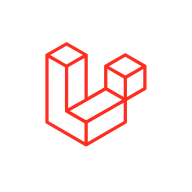
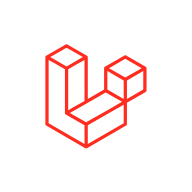
fix(brand): use the official Laravel mark, generated from one source
public/logo.svg was scaffolding boilerplate from the first commit — a "Laravel
react" promo wordmark nothing referenced, and the wrong identity to put on the
OG card and email header.

- public/logo.svg is now the official Laravel mark (matches favicon.svg), and
  app-logo-icon.tsx carries the same path, so the sidebar, favicon, share card,
  PWA icons and email header are all one artwork.
- scripts/generate-brand-assets.mjs + `bun run brand`: regenerates og-image.png,
  email-logo.png and both web-app-manifest icons from logo.svg + APP_NAME +
  palette. Rebranding is edit-one-file-then-one-command.
- Email header shows the sidebar lockup (mark on the primary tile) with the app
  name as live text, so renaming needs no new asset.
- docs/branding.md: what derives from what, and the rebranding checklist.
- BrandedMailTest covers the header URL, theme colors and every generated
  asset's dimensions.

preflight green.

diff --git a/resources/js/components/app-logo-icon.tsx b/resources/js/components/app-logo-icon.tsx
@@ -1,12 +1,16 @@
 import type { SVGAttributes } from 'react';
 
+// Official Laravel mark — same artwork as public/logo.svg (the brand source) and
+// public/favicon.svg. No `fill` here so callers can tint it with `fill-current`.
+// When rebranding: replace public/logo.svg, paste its path below, run `bun run brand`.
+// See docs/branding.md.
 export default function AppLogoIcon(props: SVGAttributes<SVGElement>) {
   return (
-    <svg {...props} viewBox="0 0 40 42" xmlns="http://www.w3.org/2000/svg">
+    <svg {...props} viewBox="0 0 166 166" xmlns="http://www.w3.org/2000/svg">
       <path
         fillRule="evenodd"
         clipRule="evenodd"
-        d="M17.2 5.63325L8.6 0.855469L0 5.63325V32.1434L16.2 41.1434L32.4 32.1434V23.699L40 19.4767V9.85547L31.4 5.07769L22.8 9.85547V18.2999L17.2 21.411V5.63325ZM38 18.2999L32.4 21.411V15.2545L38 12.1434V18.2999ZM36.9409 10.4439L31.4 13.5221L25.8591 10.4439L31.4 7.36561L36.9409 10.4439ZM24.8 18.2999V12.1434L30.4 15.2545V21.411L24.8 18.2999ZM23.8 20.0323L29.3409 23.1105L16.2 30.411L10.6591 27.3328L23.8 20.0323ZM7.6 27.9212L15.2 32.1434V38.2999L2 30.9666V7.92116L7.6 11.0323V27.9212ZM8.6 9.29991L3.05913 6.22165L8.6 3.14339L14.1409 6.22165L8.6 9.29991ZM30.4 24.8101L17.2 32.1434V38.2999L30.4 30.9666V24.8101ZM9.6 11.0323L15.2 7.92117V22.5221L9.6 25.6333V11.0323Z"
+        d="M162.041 38.7592C162.099 38.9767 162.129 39.201 162.13 39.4264V74.4524C162.13 74.9019 162.011 75.3435 161.786 75.7325C161.561 76.1216 161.237 76.4442 160.847 76.6678L131.462 93.5935V127.141C131.462 128.054 130.977 128.897 130.186 129.357L68.8474 164.683C68.707 164.763 68.5538 164.814 68.4007 164.868C68.3432 164.887 68.289 164.922 68.2284 164.938C67.7996 165.051 67.3489 165.051 66.9201 164.938C66.8499 164.919 66.7861 164.881 66.7191 164.855C66.5787 164.804 66.4319 164.76 66.2979 164.683L4.97219 129.357C4.58261 129.133 4.2589 128.81 4.0337 128.421C3.8085 128.032 3.68976 127.591 3.68945 127.141L3.68945 22.0634C3.68945 21.8336 3.72136 21.6101 3.7788 21.393C3.79794 21.3196 3.84262 21.2526 3.86814 21.1791C3.91601 21.0451 3.96068 20.9078 4.03088 20.7833C4.07874 20.7003 4.14894 20.6333 4.20638 20.5566C4.27977 20.4545 4.34678 20.3491 4.43293 20.2598C4.50632 20.1863 4.60205 20.1321 4.68501 20.0682C4.77755 19.9916 4.86051 19.9086 4.96581 19.848L35.6334 2.18492C36.0217 1.96139 36.4618 1.84375 36.9098 1.84375C37.3578 1.84375 37.7979 1.96139 38.1862 2.18492L68.8506 19.848H68.857C68.9591 19.9118 69.0452 19.9916 69.1378 20.065C69.2207 20.1289 69.3133 20.1863 69.3867 20.2566C69.476 20.3491 69.5398 20.4545 69.6164 20.5566C69.6707 20.6333 69.7441 20.7003 69.7887 20.7833C69.8621 20.911 69.9036 21.0451 69.9546 21.1791C69.9802 21.2526 70.0248 21.3196 70.044 21.3962C70.1027 21.6138 70.1328 21.8381 70.1333 22.0634V87.6941L95.686 72.9743V39.4232C95.686 39.1997 95.7179 38.9731 95.7753 38.7592C95.7977 38.6826 95.8391 38.6155 95.8647 38.5421C95.9157 38.408 95.9604 38.2708 96.0306 38.1463C96.0785 38.0633 96.1487 37.9962 96.2029 37.9196C96.2795 37.8175 96.3433 37.7121 96.4326 37.6227C96.506 37.5493 96.5986 37.495 96.6815 37.4312C96.7773 37.3546 96.8602 37.2716 96.9623 37.2109L127.633 19.5479C128.021 19.324 128.461 19.2062 128.91 19.2062C129.358 19.2062 129.798 19.324 130.186 19.5479L160.85 37.2109C160.959 37.2748 161.042 37.3546 161.137 37.428C161.217 37.4918 161.31 37.5493 161.383 37.6195C161.473 37.7121 161.536 37.8175 161.613 37.9196C161.67 37.9962 161.741 38.0633 161.785 38.1463C161.859 38.2708 161.9 38.408 161.951 38.5421C161.98 38.6155 162.021 38.6826 162.041 38.7592ZM157.018 72.9743V43.8477L146.287 50.028L131.462 58.5675V87.6941L157.021 72.9743H157.018ZM126.354 125.663V96.5176L111.771 104.85L70.1301 128.626V158.046L126.354 125.663ZM8.80126 26.4848V125.663L65.0183 158.043V128.629L35.6494 112L35.6398 111.994L35.6271 111.988C35.5281 111.93 35.4452 111.847 35.3526 111.777C35.2729 111.713 35.1803 111.662 35.1101 111.592L35.1038 111.582C35.0208 111.502 34.9634 111.403 34.8932 111.314C34.8293 111.228 34.7528 111.154 34.7017 111.065L34.6985 111.055C34.6411 110.96 34.606 110.845 34.5645 110.736C34.523 110.64 34.4688 110.551 34.4432 110.449C34.4113 110.328 34.4049 110.197 34.3922 110.072C34.3794 109.976 34.3539 109.881 34.3539 109.785V109.778V41.2045L19.5322 32.6619L8.80126 26.4848ZM36.913 7.35007L11.3635 22.0634L36.9066 36.7768L62.4529 22.0602L36.9066 7.35007H36.913ZM50.1999 99.1736L65.0215 90.6374V26.4848L54.2906 32.6651L39.4657 41.2045V105.357L50.1999 99.1736ZM128.91 24.713L103.363 39.4264L128.91 54.1397L154.453 39.4232L128.91 24.713ZM126.354 58.5675L111.529 50.028L100.798 43.8477V72.9743L115.619 81.5106L126.354 87.6941V58.5675ZM67.5711 124.205L105.042 102.803L123.772 92.109L98.2451 77.4053L68.8538 94.3341L42.0663 109.762L67.5711 124.205Z"
       />
     </svg>
   );

diff --git a/tests/Feature/BrandedMailTest.php b/tests/Feature/BrandedMailTest.php
@@ -5,31 +5,32 @@ declare(strict_types=1);
 use App\Models\User;
 use Illuminate\Auth\Notifications\ResetPassword;
 
+function resetPasswordMailHtml(): string
+{
+    return (string) new ResetPassword('fake-token')->toMail(User::factory()->create())->render();
+}
+
 it('renders framework mail with the branded theme', function (): void {
-    $user = User::factory()->create();
-
-    $html = (string) new ResetPassword('fake-token')->toMail($user)->render();
-
-    expect($html)
-        ->toContain('email-logo.png')
-        ->toContain(config('app.name'))
-        ->toContain('#00397f');
+    expect(resetPasswordMailHtml())
+        ->toContain('#00397f')
+        ->toContain(config('app.name'));
 });
 
-it('links the header logo to the app url', function (): void {
-    $user = User::factory()->create();
-
-    $html = (string) new ResetPassword('fake-token')->toMail($user)->render();
-
-    expect($html)->toContain(asset('email-logo.png'));
+it('shows the brand mark in the header as an absolute url', function (): void {
+    expect(resetPasswordMailHtml())->toContain(asset('email-logo.png'));
 });
 
-it('ships the email logo at its expected size', function (): void {
-    $path = public_path('email-logo.png');
+it('ships the generated brand assets at their declared sizes', function (): void {
+    $assets = [
+        public_path('email-logo.png') => [96, 96],
+        public_path('og-image.png') => [1200, 630],
+        public_path('web-app-manifest-192x192.png') => [192, 192],
+        public_path('web-app-manifest-512x512.png') => [512, 512],
+    ];
 
-    expect($path)->toBeFile();
+    foreach ($assets as $path => [$width, $height]) {
+        expect($path)->toBeFile();
 
-    [$width, $height] = getimagesize($path);
-
-    expect([$width, $height])->toBe([400, 100]);
+        expect(array_slice(getimagesize($path), 0, 2))->toBe([$width, $height]);
+    }
 });

diff --git a/docs/branding.md b/docs/branding.md
@@ -1,0 +1,51 @@
+# Branding a project built on this starter
+
+One source of truth — **`public/logo.svg`** — plus the app name and palette.
+Everything else is generated or reads config, so the app UI, social card, PWA
+icons and emails can't drift apart.
+
+## What derives from what
+
+| Surface | Source | How |
+|---|---|---|
+| Sidebar / app shell logo | `resources/js/components/app-logo-icon.tsx` | inline SVG path (mirrors `logo.svg`) |
+| App name everywhere in the UI | `config('app.name')` | shared Inertia prop `name` |
+| Social share card `og-image.png` | `logo.svg` + `APP_NAME` + palette | `bun run brand` |
+| Email header mark `email-logo.png` | `logo.svg` + palette | `bun run brand` |
+| Email header name | `config('app.name')` | rendered at send time |
+| PWA icons `web-app-manifest-*.png` | `logo.svg` | `bun run brand` |
+| Favicon | `public/favicon.svg`, `favicon.ico`, `apple-touch-icon.png` | replaced by hand |
+
+## Rebranding checklist
+
+1. **Name** — set `APP_NAME` in `.env` (and `.env.example`). The UI, email
+   header, OG card and `<title>` all follow. Also update `name`/`short_name` in
+   `public/site.webmanifest` (a static file).
+2. **Description** — set `APP_DESCRIPTION`; feeds the meta description and the
+   Open Graph / Twitter share tags.
+3. **Mark** — replace `public/logo.svg` with the new mark (square-ish artwork,
+   single color). Then paste its `d` path into
+   `resources/js/components/app-logo-icon.tsx` so the in-app logo matches — that
+   file deliberately carries no `fill`, so `fill-current` tints it.
+4. **Palette** — update `--primary` in `resources/css/app.css`, then mirror the
+   resolved hex in two places that can't read CSS variables:
+   - `scripts/generate-brand-assets.mjs` (`PRIMARY`, `BAND`)
+   - `resources/views/vendor/mail/html/themes/default.css` (color table at the top)
+
+   To resolve an `oklch()` value to hex, render it in a browser and read the
+   pixel back — the CSS variable is authoritative, the hex copies follow it.
+5. **Regenerate** — `bun run brand`. Rewrites `og-image.png`, `email-logo.png`
+   and both `web-app-manifest-*.png`.
+6. **Favicons** — replace `favicon.svg`, `favicon.ico`, `apple-touch-icon.png`
+   by hand (browsers want specific formats/sizes; not worth generating).
+7. **Verify** — `composer preflight`, then send yourself a password-reset mail
+   (Mailpit at `:8025`) and check the header renders.
+
+## Notes
+
+- Email images must be **raster**: most mail clients won't render SVG, which is
+  why `email-logo.png` exists rather than pointing at `logo.svg`.
+- `og:image` must be an **absolute** URL — `resources/views/app.blade.php` uses
+  `asset()` for that reason; crawlers don't reliably resolve relative paths.
+- The email header keeps the app name as *text*, not baked into the image, so
+  renaming the app needs no new asset.
